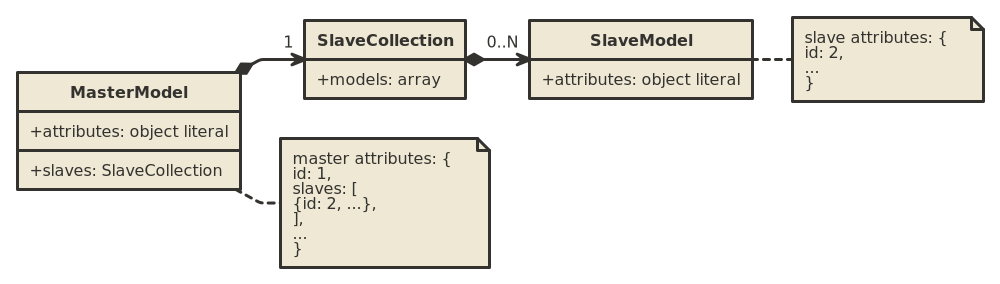
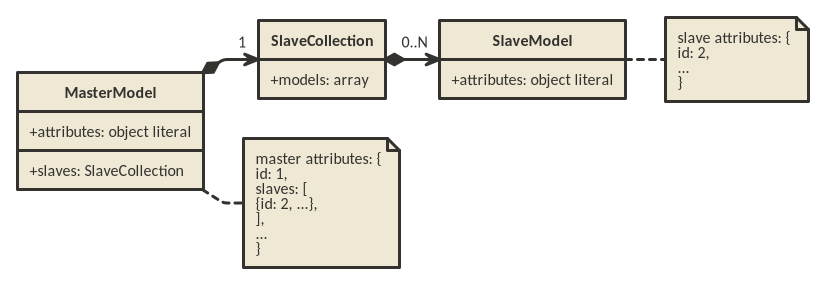
Regenerated with new version of tools

Changed region(s): [[0.0, 0.0563, 1.0, 0.9577], [0.5758, 0.1127, 0.697, 0.169]]

diff --git a/docs/backbone.composite-model.html b/docs/backbone.composite-model.html
@@ -27,9 +27,9 @@
               <div class="pilwrap ">
                 <a class="pilcrow" href="#section-1">&#182;</a>
               </div>
-              <p>Backbone.CompositeModel 0.1.2
+              <p>Backbone.CompositeModel 0.1.3
 <a href="https://github.com/prantlf/backbone.composite-model">https://github.com/prantlf/backbone.composite-model</a></p>
-<p>Copyright (c) 2015 Ferdinand Prantl
+<p>Copyright (c) 2015-2016 Ferdinand Prantl
 Licensed under the MIT license.</p>
 <p>Supports composite Backbone.Model objects which consist of a main model
 and child models or collections maintained automatically according to a
@@ -102,7 +102,7 @@ about a file:</p>
   <span class="hljs-comment">// Override the constructor to see the name `FileModel`</span>
   <span class="hljs-comment">// in the debugger and to be able to initialize the</span>
   <span class="hljs-comment">// composite model</span>
-  constructor: <span class="hljs-function"><span class="hljs-keyword">function</span> <span class="hljs-title">FileModel</span>(<span class="hljs-params">attributes, options</span>) </span>{
+  <span class="hljs-keyword">constructor</span>: function FileModel(attributes, options) {
     FileModel.__super__.constructor.apply(<span class="hljs-keyword">this</span>, <span class="hljs-built_in">arguments</span>);
     <span class="hljs-keyword">this</span>,makeComposite(options);
   },
@@ -173,7 +173,7 @@ using a common Backbone interface.</p>
             </div>
             
             <div class="content"><div class='highlight'><pre>(<span class="hljs-function"><span class="hljs-keyword">function</span> (<span class="hljs-params">root, factory</span>) </span>{
-<span class="hljs-pi">  'use strict'</span>;</pre></div></div>
+<span class="hljs-meta">  'use strict'</span>;</pre></div></div>
             
         </li>
         
@@ -224,7 +224,7 @@ using a common Backbone interface.</p>
     root.returnExports = factory(root._, root.Backbone);
   }
 }(<span class="hljs-keyword">this</span>, <span class="hljs-function"><span class="hljs-keyword">function</span> (<span class="hljs-params">_, Backbone</span>) </span>{
-<span class="hljs-pi">  'use strict'</span>;</pre></div></div>
+<span class="hljs-meta">  'use strict'</span>;</pre></div></div>
             
         </li>
         
@@ -268,32 +268,32 @@ instance or constructor <code>options</code>.</p>
 <pre><code><span class="hljs-comment">// Maintains a property on the model instance with</span>
 <span class="hljs-comment">// the attribute name pointing to an object instance</span>
 <span class="hljs-comment">// of the specified type</span>
-&lt;attribute name&gt;: <span class="xml"><span class="hljs-tag">&lt;<span class="hljs-title">Backbone</span> <span class="hljs-attribute">model</span> <span class="hljs-attribute">or</span> <span class="hljs-attribute">collection</span>&gt;</span>,
+&lt;attribute name&gt;: &lt;Backbone model or collection&gt;,
 
 // Maintains a property on the model instance backed
 // up by the specified attribute overriding the
 // default handling
-<span class="hljs-tag">&lt;<span class="hljs-title">attribute</span> <span class="hljs-attribute">name</span>&gt;</span>: {
+&lt;attribute name&gt;: {
   // Model or collection to create for the attribute
   // value (required)
-  type: <span class="hljs-tag">&lt;<span class="hljs-title">Backbone</span> <span class="hljs-attribute">model</span> <span class="hljs-attribute">or</span> <span class="hljs-attribute">collection</span>&gt;</span>,
+  type: &lt;Backbone model or collection&gt;,
   // Property name to store the sub-object on the
   // model with (optional; the attribute name is
   //  the default)
-  property: <span class="hljs-tag">&lt;<span class="hljs-title">property</span> <span class="hljs-attribute">name</span>&gt;</span>,
+  property: &lt;property name&gt;,
   // Additional options to pass to the constructor of
   // the sub-object (optional; undefined by default)
-  options: <span class="hljs-tag">&lt;<span class="hljs-title">object</span> <span class="hljs-attribute">literal</span>&gt;</span>,
+  options: &lt;object literal&gt;,
   // Method to call on the child model or collection
   // if updated data are being set (optional; `set` is
   // the default for models, `add` for collections)
-  method: <span class="hljs-tag">&lt;<span class="hljs-title">method</span> <span class="hljs-attribute">name</span>&gt;</span>,
+  method: &lt;method name&gt;,
   // Function to call before the value is passed to
   // child model or collection constructor or `set` /
   // `add` method to "massage" the input data
   // (optional; `undefined` is the default)
-  parse: <span class="hljs-tag">&lt;<span class="hljs-title">function</span> (<span class="hljs-attribute">value</span>, <span class="hljs-attribute">options</span>)&gt;</span>,
-}</span>
+  parse: &lt;function (value, options)&gt;,
+}
 </code></pre>
             </div>
             
